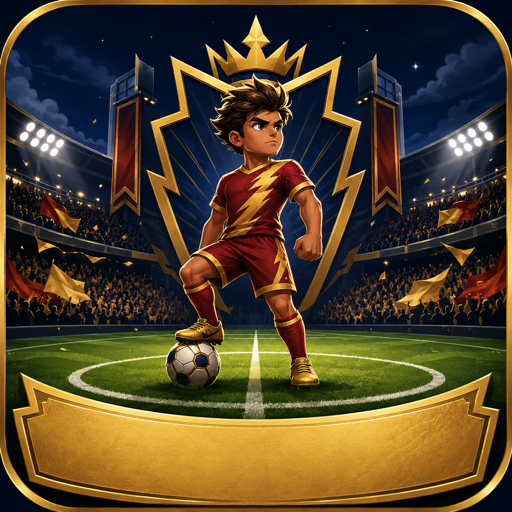
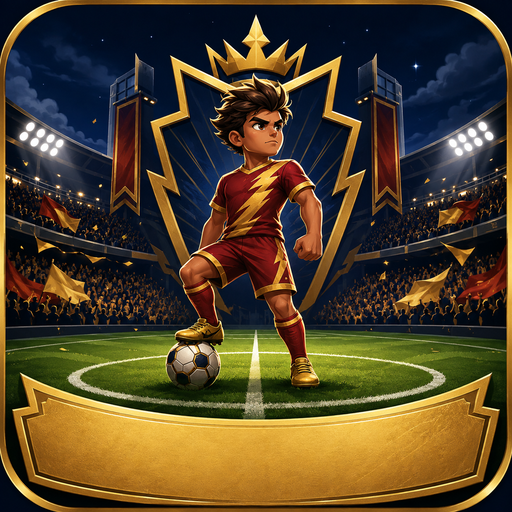
fix: keep Crazy Games store art out of the 50MB portal payload

diff --git a/vite.config.ts b/vite.config.ts
@@ -23,6 +23,8 @@ const RELEASE_EXCLUDED_DIRECTORIES = [
   // but do not ship two complete 384-frame sets in the portal payload.
   'art/players/directional-v2',
   'art/players/directional-v3',
+  // Crazy Games listing art — not loaded by the game.
+  'art/store',
 ] as const;
 
 async function directoryBytes(path: string): Promise<number> {
